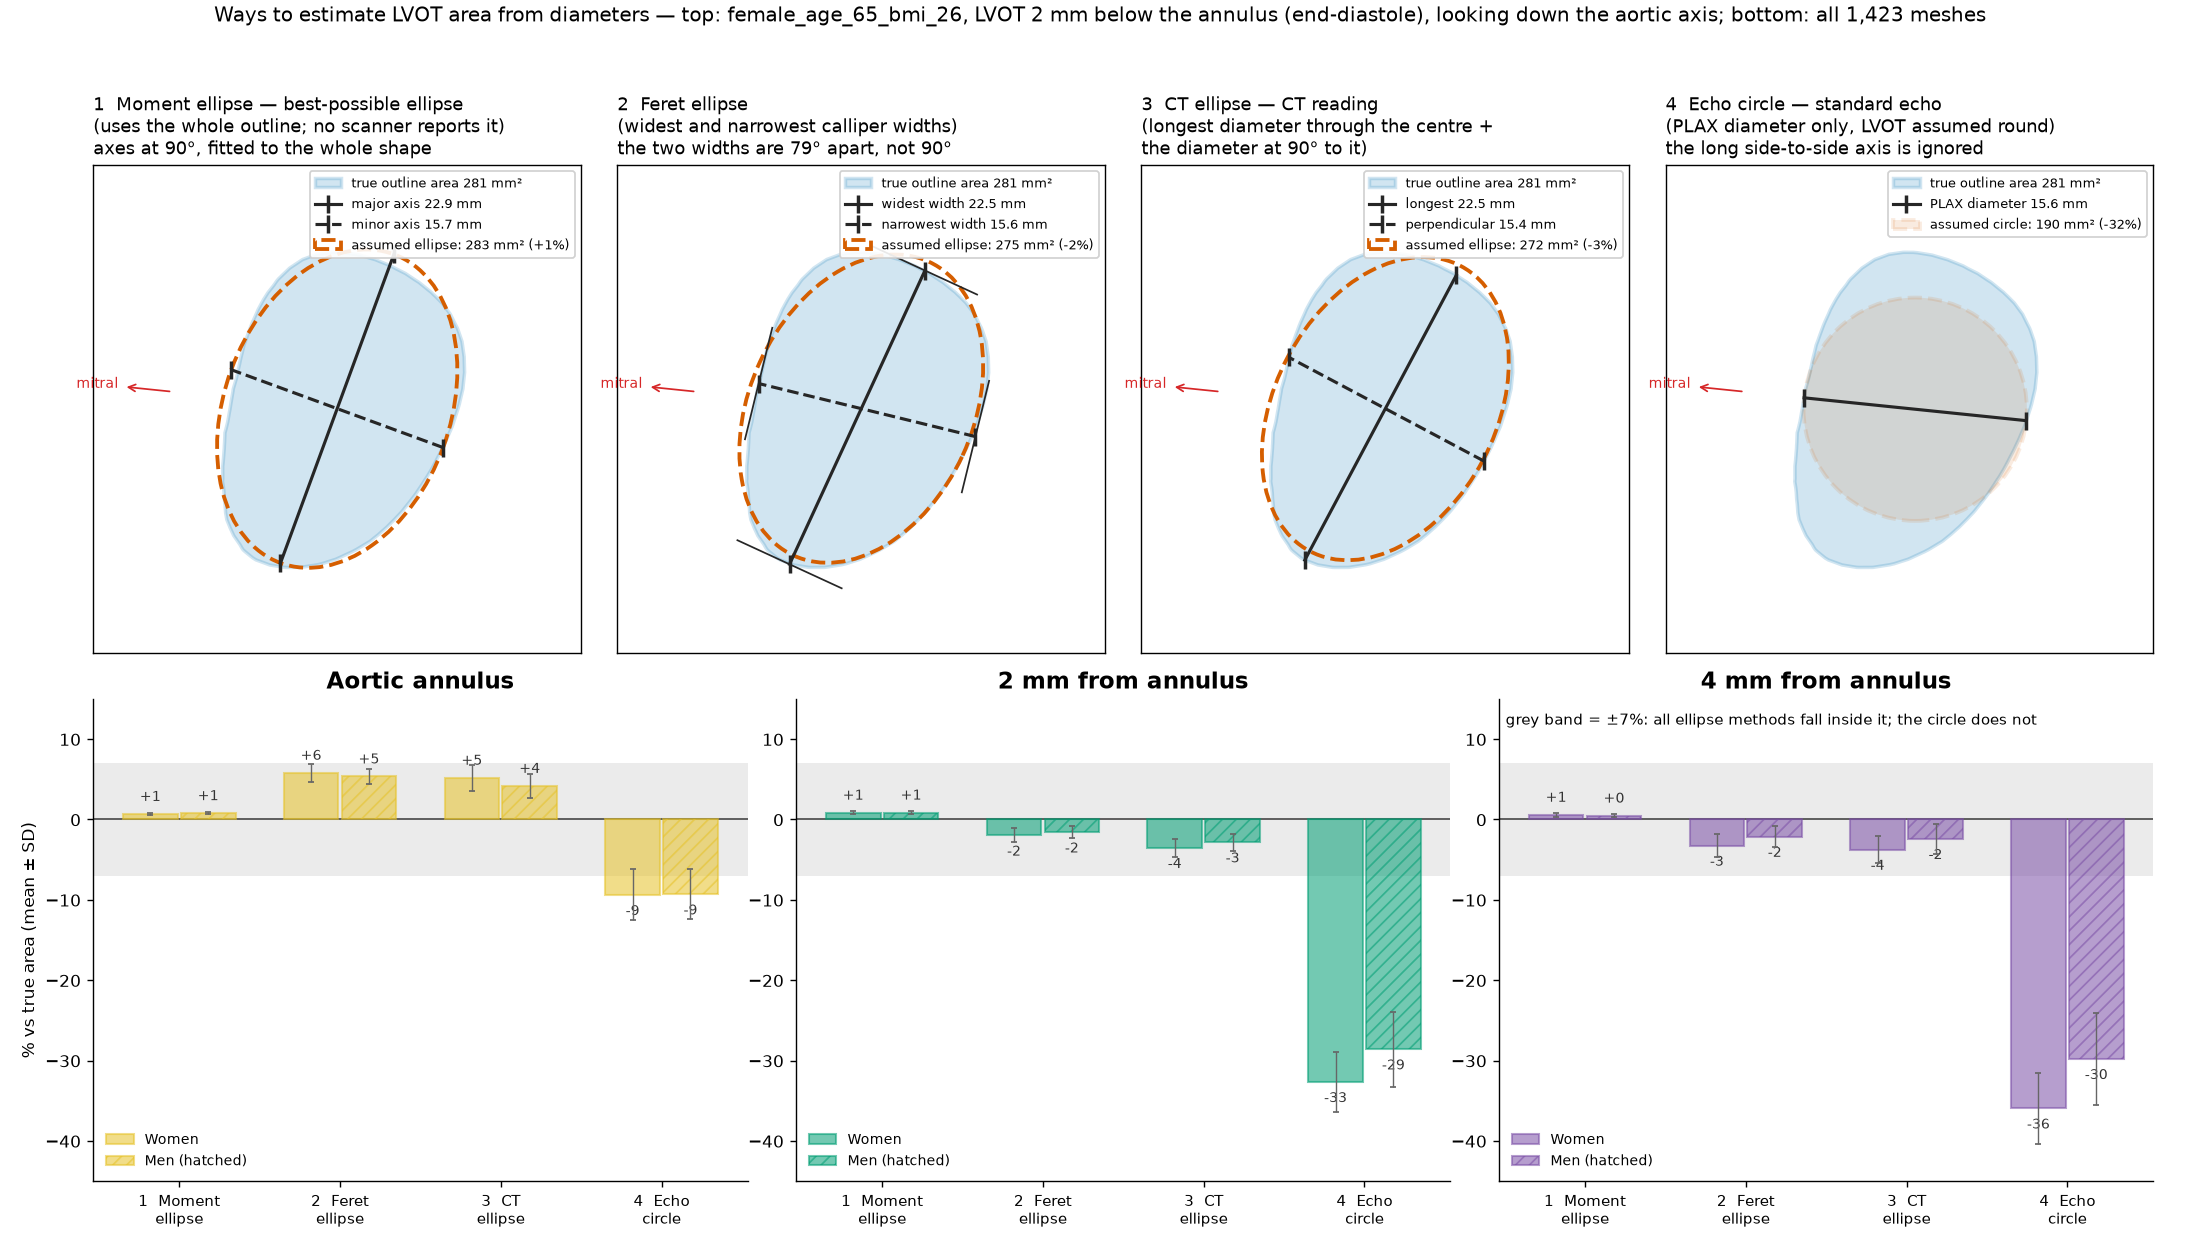
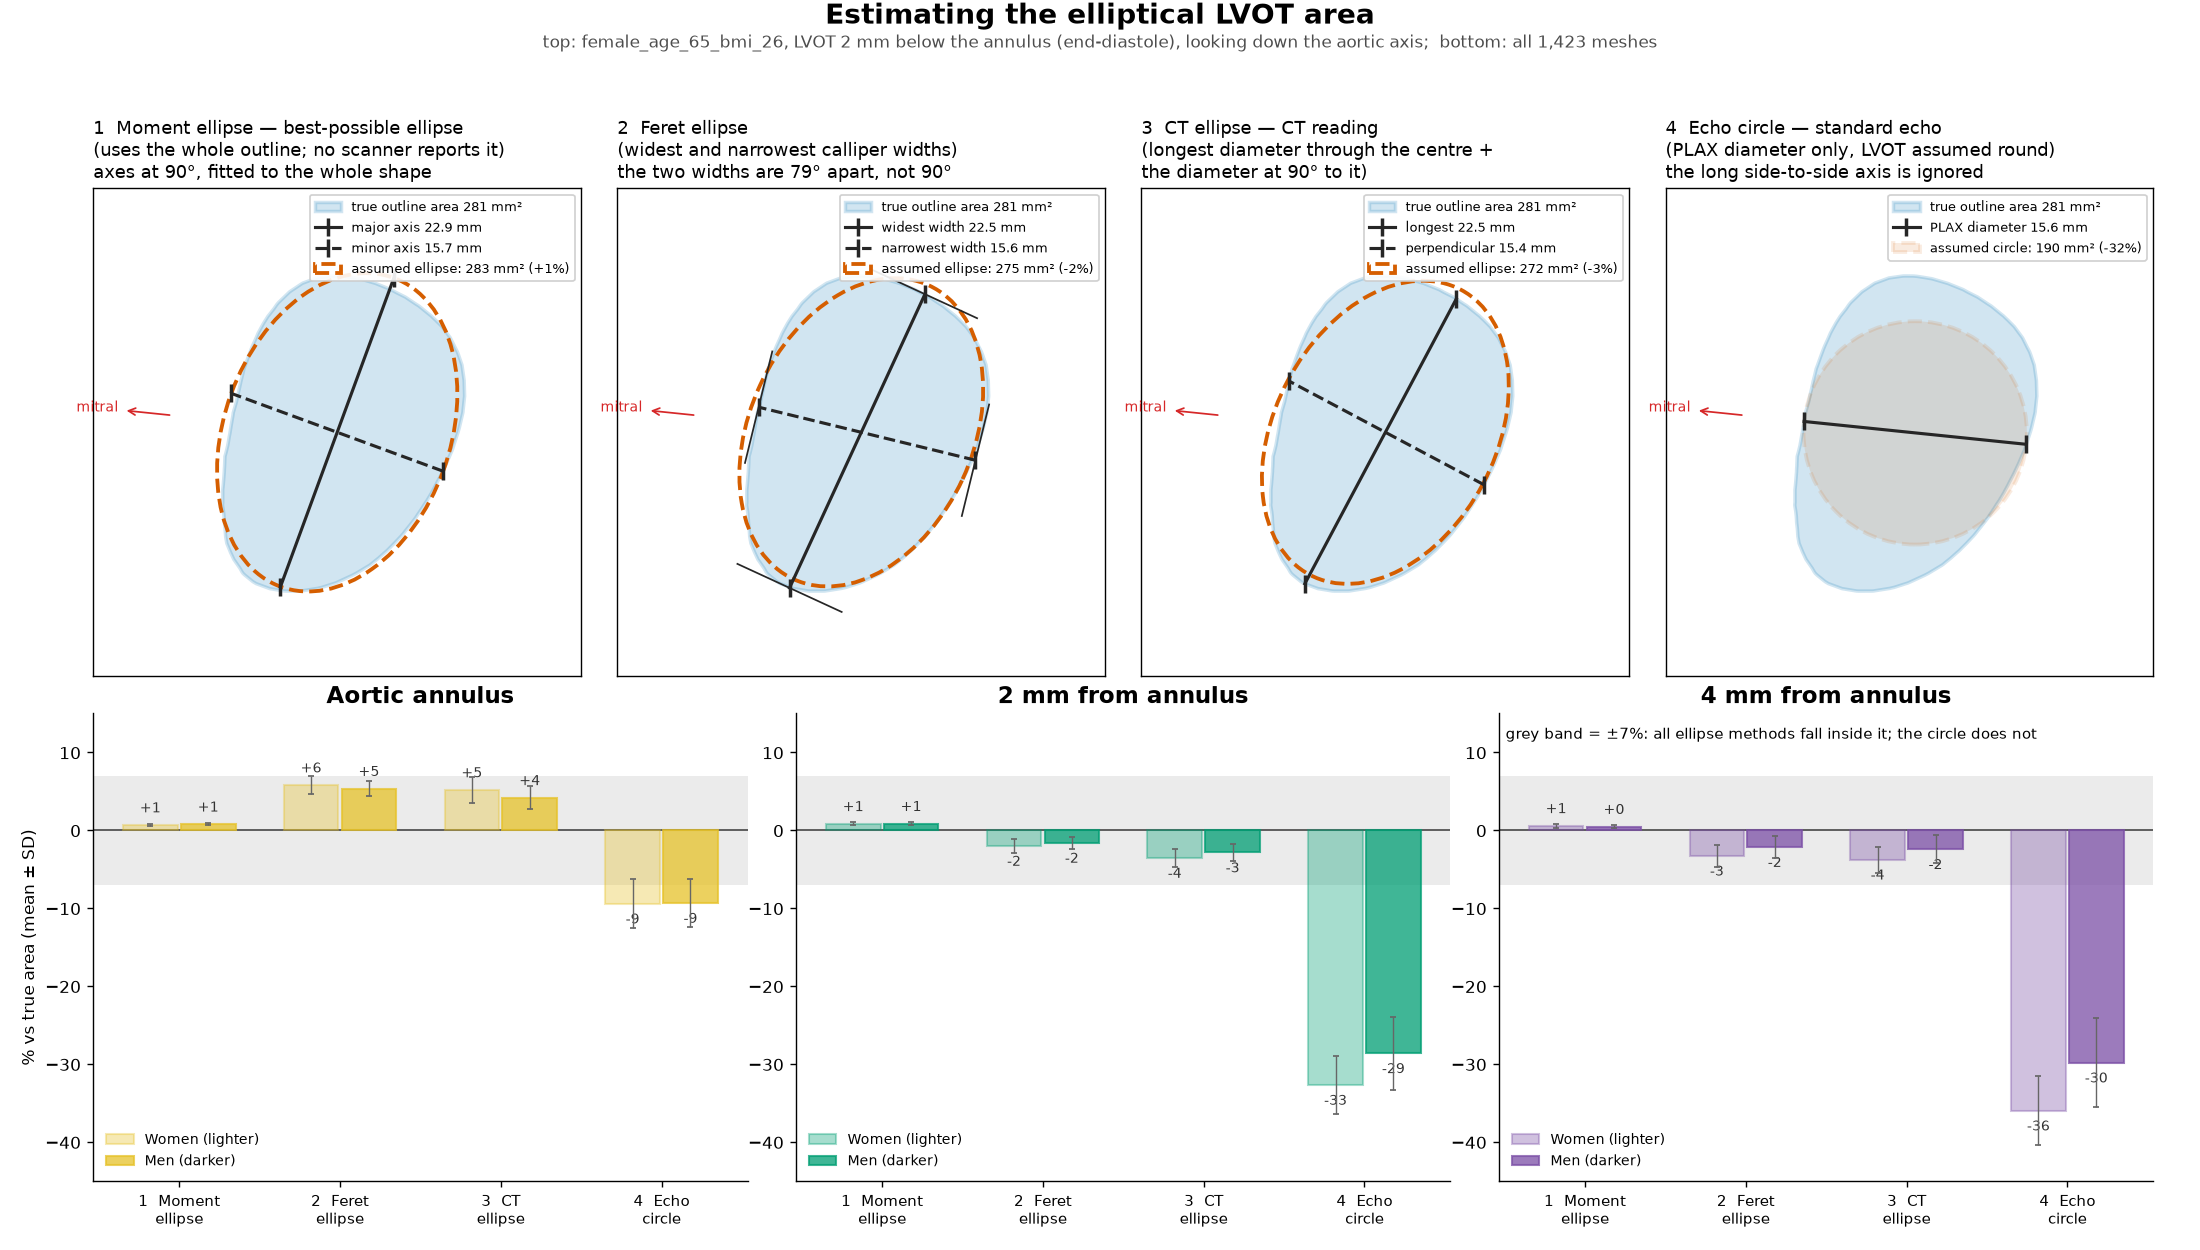
Area-methods figure: no hatching (sex by shade), title 'Estimating the elliptical LVOT area'

diff --git a/scripts/07_area_methods_demo.py b/scripts/07_area_methods_demo.py
@@ -174,9 +174,9 @@ for j, lev in enumerate(LEV):
         row = S[(S.level == lev) & (S.sex == sx)].iloc[0]
         vals = [row[f"{m}_pct_mean"] for m, _ in M]
         sds = [row[f"{m}_pct_sd"] for m, _ in M]
-        ax.bar(x + (k - .5) * .36, vals, width=.34, color=col, alpha=.55, edgecolor=col, linewidth=1.2,
-               hatch=None if sx == "F" else "///", yerr=sds, capsize=2, error_kw=dict(lw=.8, ecolor="0.4"),
-               zorder=3, label={"F": "Women", "M": "Men (hatched)"}[sx])
+        ax.bar(x + (k - .5) * .36, vals, width=.34, color=col, alpha={"F": .35, "M": .75}[sx], edgecolor=col,
+               linewidth=1.2, yerr=sds, capsize=2, error_kw=dict(lw=.8, ecolor="0.4"),
+               zorder=3, label={"F": "Women (lighter)", "M": "Men (darker)"}[sx])
         for xi, val in zip(x + (k - .5) * .36, vals):
             ax.text(xi, val + (1.2 if val >= 0 else -1.2), f"{val:+.0f}", ha="center",
                     va="bottom" if val >= 0 else "top", fontsize=8, color="0.2")
@@ -196,9 +196,10 @@ for j, lev in enumerate(LEV):
     if j == 2:
         ax.text(0.01, 0.97, "grey band = ±7%: all ellipse methods fall inside it; the circle does not",
                 transform=ax.transAxes, fontsize=8.5, va="top")
-fig.suptitle(f"Ways to estimate LVOT area from diameters — top: {mid}, LVOT 2 mm below the annulus "
-             "(end-diastole), looking down the aortic axis; bottom: all 1,423 meshes", fontsize=11.5, y=0.995)
-fig.tight_layout(rect=(0, 0, 1, 0.97))
+fig.suptitle("Estimating the elliptical LVOT area", fontsize=16, fontweight="bold", y=0.998)
+fig.text(0.5, 0.962, f"top: {mid}, LVOT 2 mm below the annulus (end-diastole), looking down the aortic axis;  "
+         "bottom: all 1,423 meshes", ha="center", fontsize=10, color="0.3")
+fig.tight_layout(rect=(0, 0, 1, 0.95))
 out = ROOT / "outputs/figures/analysis/fig_area_methods_demo.png"
 fig.savefig(out, dpi=125)
 print("wrote", out)

diff --git a/docs/PIPELINE.md b/docs/PIPELINE.md
@@ -83,7 +83,7 @@ Code: [`scripts/03_analysis.py`](../scripts/03_analysis.py).
 | 6.4 Statistics | OLS `y ~ age_c + sex + age_c×sex + BMI` on all meshes (age centred at 65, BMI at 27). Reported: sex difference at 50/65/80 (mm and %), age slope by sex, age×sex p-value, `narrows_with_age`. Paired M − F mean ± 95% CI per age block (46–54 … 75–83). | `# STEP 6.4` → `model_coefs.csv`, `sexdiff_by_age_block.csv` |
 | 6.5 Figures | `fig_raw` (all meshes), `fig_common` (common support), `fig_adjusted` (model at BMI 27), `fig_sexdiff` (M − F vs age). Women `#D55E00`, men `#0072B2`. | `# STEP 6.5` → `outputs/figures/analysis/` |
 | 6.6 Area methods | For the annulus, LVOT 2 mm and LVOT 4 mm (chord-closed), the measured outline area is compared with: π/4·major·minor (moment ellipse); π/4·Feret max·min; π/4·longest·perpendicular, both through the centre (CT reading, `ct_diams()`, from the saved outlines of STEP 5.6); π/4·D_PLAX·D_perp (two orthogonal views); π/4·D_PLAX² (standard echo, circular LVOT). Reported: % difference by sex; paired M − F difference in echo bias. | [`scripts/06_area_methods.py`](../scripts/06_area_methods.py) → `area_methods_summary.csv`, `area_methods_by_mesh.csv`, `fig_area_methods.png` |
-| 6.7 Area methods illustration | One outline (LVOT 2 mm) drawn once per method, showing the diameters used and the assumed shape (area and % error in the legend): moment ellipse, Feret ellipse, CT ellipse (longest × perpendicular through the centre), echo circle. The two-view (PLAX × perpendicular) ellipse is hidden (`SHOW_TWO_VIEW = False`) but kept in the code and in the tables. Below: mean ± SD % difference by method and sex for the aortic annulus, 2 mm and 4 mm from the annulus (bars coloured by level; women plain, men hatched). | [`scripts/07_area_methods_demo.py`](../scripts/07_area_methods_demo.py) → `fig_area_methods_demo.png` |
+| 6.7 Area methods illustration | One outline (LVOT 2 mm) drawn once per method, showing the diameters used and the assumed shape (area and % error in the legend): moment ellipse, Feret ellipse, CT ellipse (longest × perpendicular through the centre), echo circle. The two-view (PLAX × perpendicular) ellipse is hidden (`SHOW_TWO_VIEW = False`) but kept in the code and in the tables. Below: mean ± SD % difference by method and sex for the aortic annulus, 2 mm and 4 mm from the annulus (bars coloured by level, semi-transparent; women lighter, men darker; title "Estimating the elliptical LVOT area"). | [`scripts/07_area_methods_demo.py`](../scripts/07_area_methods_demo.py) → `fig_area_methods_demo.png` |
 
 ## STEP 7 — Write-up
 `WRITEUP.md`: methods summary, key numbers, figures, caveats. The results are filled in after the full run. The caveats section already states that **all measurements are end-diastolic** (no systolic meshes exist in this dataset).

diff --git a/docs/DECISIONS.md b/docs/DECISIONS.md
@@ -54,5 +54,5 @@ One entry per choice: what was tried, what was seen, what was decided, and where
     - **Saved outlines:** the outlines had not been saved, so `09_save_outlines.py` now writes per-mesh 2D outlines to `data/outlines/` (resumable). Saved outlines reproduce the table's area and PLAX diameter exactly.
     - **Pilot (68 meshes):** the CT ellipse is close to the Feret ellipse (annulus +5.3% F / +4.0% M; LVOT 2 mm −3.3 / −2.8%; 4 mm −3.6 / −2.5%). Its longest diameter is within 0.3 mm of the widest calliper width and its perpendicular within 0.2 mm of the narrowest. Forcing 90° changes little because the outlines are close to elliptical.
     - **Full cohort (2026-10-25):** `09_save_outlines.py --all` ran for all 1,423 meshes (67 min, 0 errors); saved outline areas match the table exactly, and the only missing outlines are the 10 meshes without a strict 2 mm section. CT ellipse vs outline area: annulus +5.2% F / +4.2% M; LVOT 2 mm −3.5 / −2.8%; LVOT 4 mm −3.8 / −2.4% (Feret: +5.8 / +5.3, −2.0 / −1.6, −3.3 / −2.1).
-21. **Figure scope (user, 2026-10-25).** The area-methods figure shows four methods (moment, Feret, CT, echo circle). The two-view (PLAX × perpendicular) ellipse and the PLAX-plane sensitivity analysis (±10–20° rotation, 2 mm off-centre) are kept for later analyses, not presented now. The two-view code stays in `07_area_methods_demo.py` (`SHOW_TWO_VIEW`) and in `06_area_methods.py` / `area_methods_summary.csv`. Bars are coloured by level (yellow annulus, green 2 mm, purple 4 mm), semi-transparent, with men hatched; the formula boxes were removed and each estimate's area and % error moved into the legend.
+21. **Figure scope (user, 2026-10-25).** The area-methods figure shows four methods (moment, Feret, CT, echo circle). The two-view (PLAX × perpendicular) ellipse and the PLAX-plane sensitivity analysis (±10–20° rotation, 2 mm off-centre) are kept for later analyses, not presented now. The two-view code stays in `07_area_methods_demo.py` (`SHOW_TWO_VIEW`) and in `06_area_methods.py` / `area_methods_summary.csv`. Bars are coloured by level (yellow annulus, green 2 mm, purple 4 mm), semi-transparent, women lighter and men darker (hatching removed at the user's request); main title "Estimating the elliptical LVOT area"; the formula boxes were removed and each estimate's area and % error moved into the legend.
 
